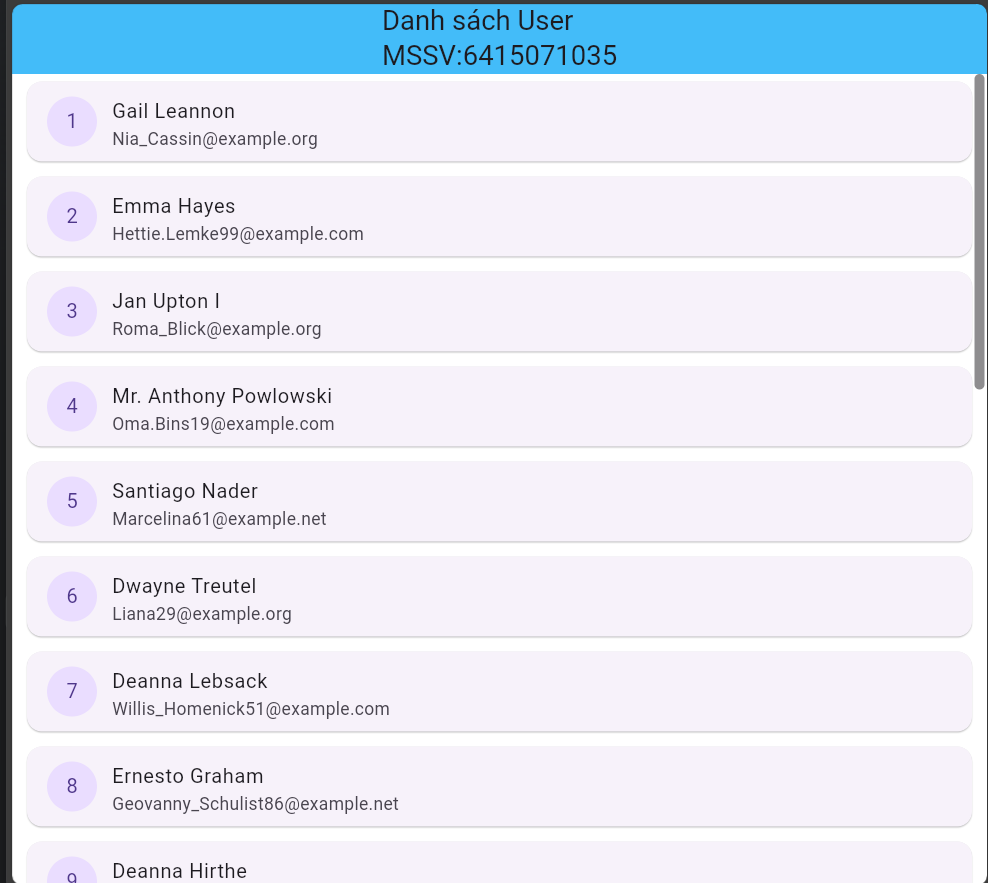
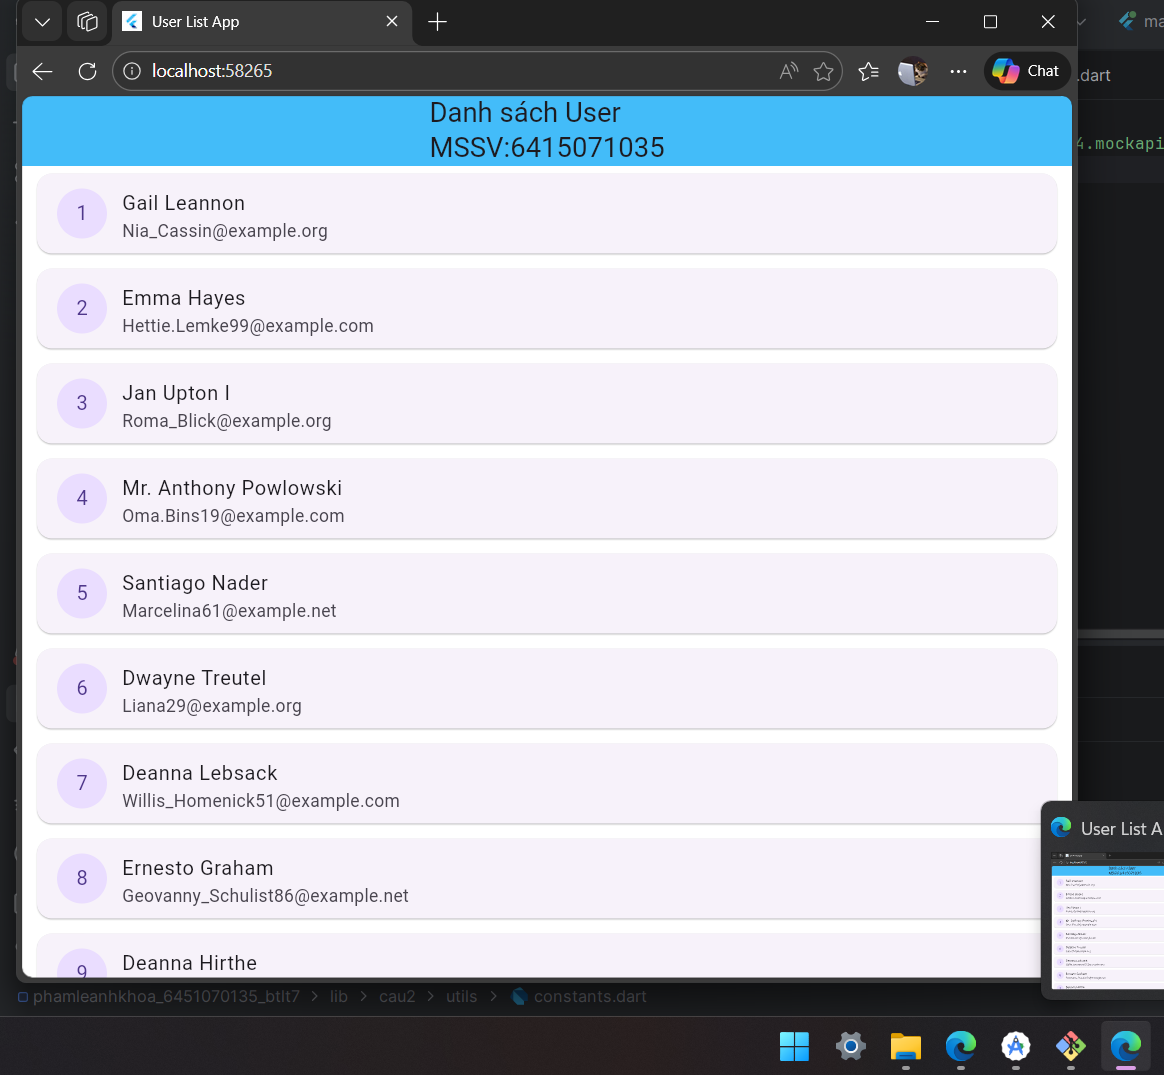
them anh

diff --git a/lib/main.dart b/lib/main.dart
@@ -3,6 +3,6 @@ import 'package:phamleanhkhoa_6451070135_btlt7/cau1/app/my_app_1.dart';
 import 'package:phamleanhkhoa_6451070135_btlt7/cau2/app/my_app_2.dart';
 
 void main() {
-  runApp(const MyApp1());
-  // runApp(const MyApp2());
+  // runApp(const MyApp1());
+  runApp(const MyApp2());
 }
